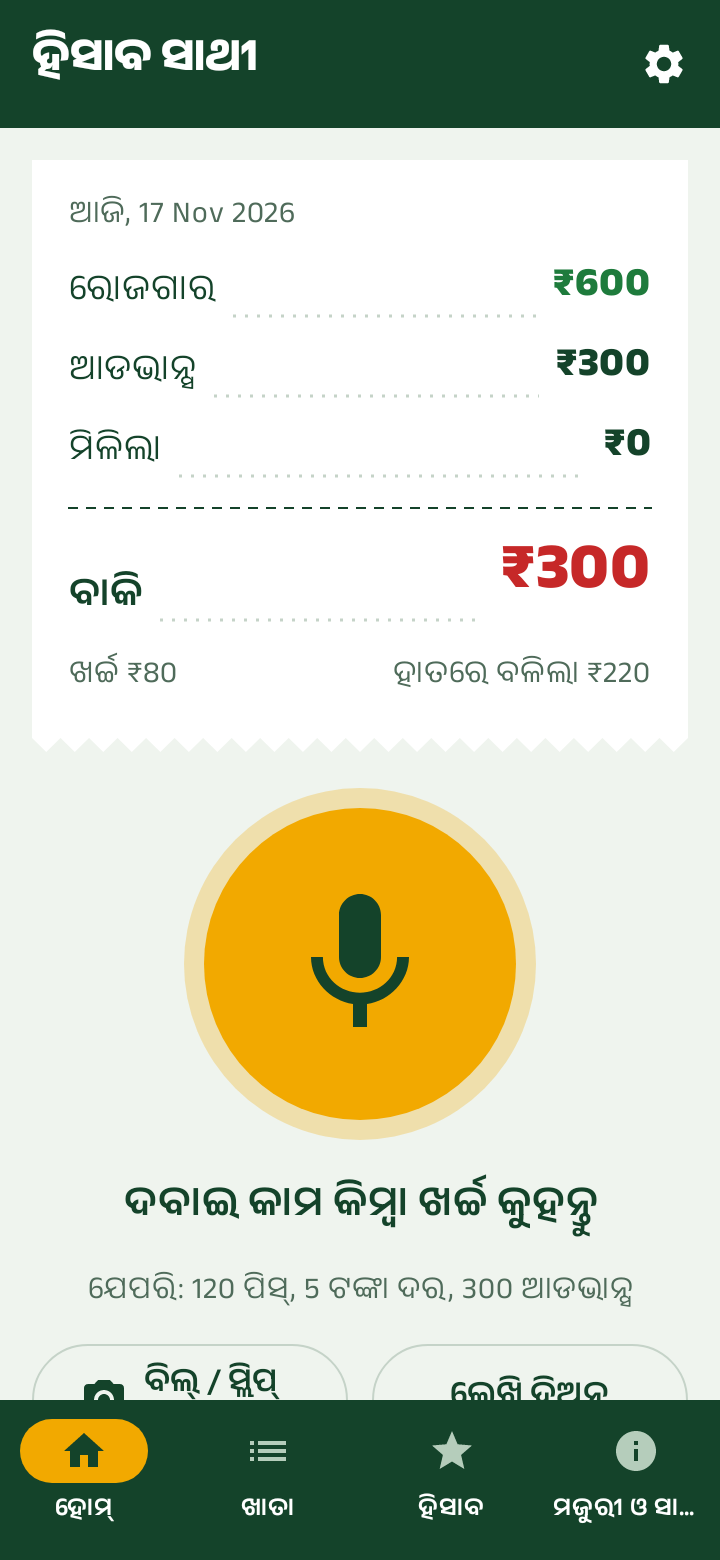
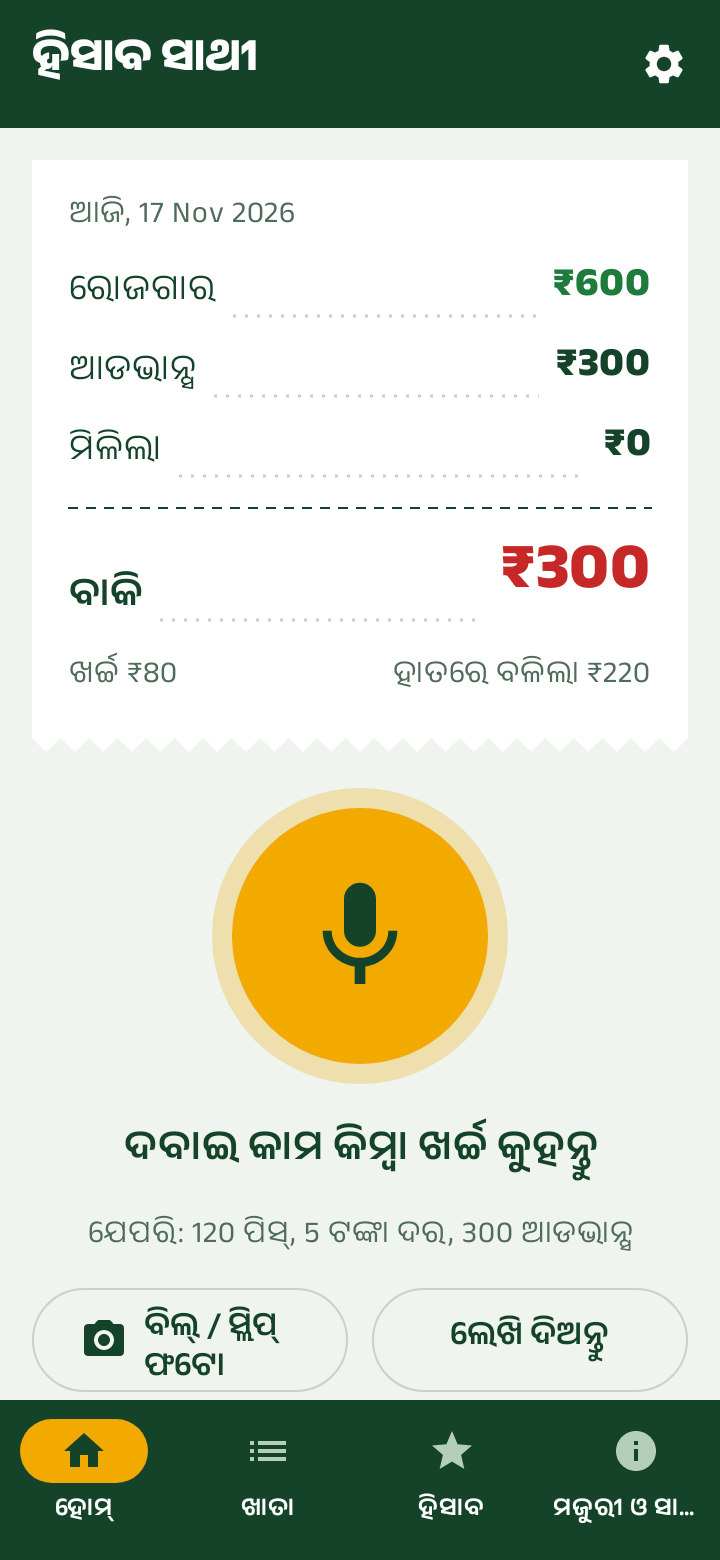
Smaller buttons and mic

Changed region(s): [[0.0917, 0.5231, 0.8861, 0.9231], [0.9167, 0.8615, 0.9472, 0.8923], [0.5194, 0.8615, 0.55, 0.8923]]

diff --git a/android/app/src/main/kotlin/com/acxelin/hisaabsaathi/ui/Screens.kt b/android/app/src/main/kotlin/com/acxelin/hisaabsaathi/ui/Screens.kt
@@ -108,9 +108,9 @@ private fun TotalsCard(title: String, t: Totals, s: Strings) {
 @Composable
 private fun BigButton(text: String, color: Color, modifier: Modifier = Modifier, onClick: () -> Unit) {
     Button(
-        onClick = onClick, modifier = modifier.height(64.dp), shape = RoundedCornerShape(10.dp),
+        onClick = onClick, modifier = modifier.height(52.dp), shape = RoundedCornerShape(10.dp),
         colors = ButtonDefaults.buttonColors(containerColor = color, contentColor = if (color == Marigold) Ink else Color.White),
-    ) { Text(text, fontSize = 18.sp, fontWeight = FontWeight.SemiBold, textAlign = TextAlign.Center) }
+    ) { Text(text, fontSize = 17.sp, fontWeight = FontWeight.SemiBold, textAlign = TextAlign.Center) }
 }
 
 // ---------------------------------------------------------------- home
@@ -141,16 +141,16 @@ fun HomeScreen(vm: AppViewModel, settings: Settings, s: Strings, capture: Captur
         val listening = capture == Capture.Listening
         val thinking = capture == Capture.Thinking
         val pulse by animateFloatAsState(if (listening) 1f + level * 0.35f else 1f, label = "mic")
-        Box(contentAlignment = Alignment.Center, modifier = Modifier.size(188.dp)) {
+        Box(contentAlignment = Alignment.Center, modifier = Modifier.size(160.dp)) {
             // The ring swells with the worker's voice while listening.
-            Box(Modifier.size(176.dp).scale(pulse).clip(CircleShape).background(if (listening) Sindoor.copy(alpha = 0.22f) else Marigold.copy(alpha = 0.28f)))
+            Box(Modifier.size(148.dp).scale(pulse).clip(CircleShape).background(if (listening) Sindoor.copy(alpha = 0.22f) else Marigold.copy(alpha = 0.28f)))
             Box(
-                Modifier.size(156.dp).clip(CircleShape).background(if (listening) Sindoor else Marigold)
+                Modifier.size(128.dp).clip(CircleShape).background(if (listening) Sindoor else Marigold)
                     .clickable(enabled = !thinking, onClick = onMic),
                 contentAlignment = Alignment.Center,
             ) {
                 if (thinking) CircularProgressIndicator(color = Ink)
-                else Icon(painterResource(R.drawable.ic_mic), s.tapAndSpeak, tint = if (listening) Color.White else Ink, modifier = Modifier.size(84.dp))
+                else Icon(painterResource(R.drawable.ic_mic), s.tapAndSpeak, tint = if (listening) Color.White else Ink, modifier = Modifier.size(64.dp))
             }
         }
         Text(
@@ -164,12 +164,12 @@ fun HomeScreen(vm: AppViewModel, settings: Settings, s: Strings, capture: Captur
         if (!listening && !thinking) Text(s.typeHint, fontSize = 15.sp, color = InkSoft, textAlign = TextAlign.Center)
 
         Row(horizontalArrangement = Arrangement.spacedBy(12.dp), modifier = Modifier.fillMaxWidth()) {
-            OutlinedButton(onClick = onScan, modifier = Modifier.weight(1f).height(56.dp)) {
+            OutlinedButton(onClick = onScan, modifier = Modifier.weight(1f).height(52.dp)) {
                 Icon(painterResource(R.drawable.ic_camera), null, tint = Ink)
                 Spacer(Modifier.width(8.dp))
                 Text(s.scanBill)
             }
-            OutlinedButton(onClick = onType, modifier = Modifier.weight(1f).height(56.dp)) { Text(s.typeInstead) }
+            OutlinedButton(onClick = onType, modifier = Modifier.weight(1f).height(52.dp)) { Text(s.typeInstead) }
         }
     }
 }
@@ -274,20 +274,20 @@ fun ReviewScreen(vm: AppViewModel, r: Capture.Review, s: Strings, onSpeakAnswer:
         }
         Row(Modifier.fillMaxWidth().padding(top = 12.dp), horizontalArrangement = Arrangement.spacedBy(12.dp)) {
             Button(
-                onClick = vm::retry, modifier = Modifier.weight(1f).height(88.dp), shape = RoundedCornerShape(12.dp),
+                onClick = vm::retry, modifier = Modifier.weight(1f).height(68.dp), shape = RoundedCornerShape(12.dp),
                 colors = ButtonDefaults.buttonColors(containerColor = Red),
             ) {
                 Column(horizontalAlignment = Alignment.CenterHorizontally) {
-                    Icon(Icons.Default.Close, null, modifier = Modifier.size(36.dp))
+                    Icon(Icons.Default.Close, null, modifier = Modifier.size(26.dp))
                     Text(s.fixByVoice, fontSize = 13.sp, textAlign = TextAlign.Center)
                 }
             }
             Button(
-                onClick = { vm.confirmSave() }, modifier = Modifier.weight(1f).height(88.dp), shape = RoundedCornerShape(12.dp),
+                onClick = { vm.confirmSave() }, modifier = Modifier.weight(1f).height(68.dp), shape = RoundedCornerShape(12.dp),
                 colors = ButtonDefaults.buttonColors(containerColor = Green),
             ) {
                 Column(horizontalAlignment = Alignment.CenterHorizontally) {
-                    Icon(Icons.Default.Check, null, modifier = Modifier.size(36.dp))
+                    Icon(Icons.Default.Check, null, modifier = Modifier.size(26.dp))
                     Text(s.save, fontSize = 13.sp, textAlign = TextAlign.Center)
                 }
             }
@@ -400,7 +400,7 @@ fun SummaryScreen(vm: AppViewModel, settings: Settings, s: Strings) {
             Section(color = Notice) { Text(it.text, fontSize = 18.sp, color = NoticeInk) }
         }
         BigButton(s.readAloud, Marigold, Modifier.fillMaxWidth()) { vm.speakSummary(period) }
-        OutlinedButton(onClick = { vm.exportPdf(period) }, modifier = Modifier.fillMaxWidth().height(56.dp)) {
+        OutlinedButton(onClick = { vm.exportPdf(period) }, modifier = Modifier.fillMaxWidth().height(52.dp)) {
             Icon(Icons.Default.Share, null); Spacer(Modifier.width(8.dp)); Text(s.exportPdf)
         }
 

diff --git a/android/app/src/main/kotlin/com/acxelin/hisaabsaathi/ui/SetupScreens.kt b/android/app/src/main/kotlin/com/acxelin/hisaabsaathi/ui/SetupScreens.kt
@@ -98,13 +98,13 @@ private fun LanguagePicker(vm: AppViewModel, settings: Settings, onDark: Boolean
                 pair.forEach { l ->
                     val selected = settings.lang == l
                     Button(
-                        onClick = { vm.setLang(l) }, modifier = Modifier.weight(1f).height(72.dp), shape = RoundedCornerShape(10.dp),
+                        onClick = { vm.setLang(l) }, modifier = Modifier.weight(1f).height(60.dp), shape = RoundedCornerShape(10.dp),
                         colors = ButtonDefaults.buttonColors(
                             containerColor = if (selected) Marigold else if (onDark) InkRaised else Paper,
                             contentColor = if (selected || !onDark) Ink else Color.White,
                         ),
                         // Each name is drawn in its own script's font, whatever the app language is.
-                    ) { Text(l.nativeName, fontSize = 24.sp, fontWeight = FontWeight.SemiBold, fontFamily = fontFor(l), color = if (selected || !onDark) Ink else Color.White) }
+                    ) { Text(l.nativeName, fontSize = 21.sp, fontWeight = FontWeight.SemiBold, fontFamily = fontFor(l), color = if (selected || !onDark) Ink else Color.White) }
                 }
             }
         }
@@ -140,13 +140,13 @@ fun Onboarding(vm: AppViewModel, settings: Settings, s: Strings) {
             }
         }
         Row(Modifier.fillMaxWidth(), horizontalArrangement = Arrangement.spacedBy(12.dp)) {
-            if (step > 0) OutlinedButton(onClick = { step-- }, modifier = Modifier.height(64.dp)) { Icon(Icons.AutoMirrored.Filled.ArrowBack, s.cancel, tint = Ink) }
+            if (step > 0) OutlinedButton(onClick = { step-- }, modifier = Modifier.height(52.dp)) { Icon(Icons.AutoMirrored.Filled.ArrowBack, s.cancel, tint = Ink) }
             Button(
                 onClick = { if (step < 2) step++ else vm.finishOnboarding() },
                 enabled = step != 1 || settings.region.isNotEmpty(),
-                modifier = Modifier.weight(1f).height(64.dp), shape = RoundedCornerShape(10.dp),
+                modifier = Modifier.weight(1f).height(52.dp), shape = RoundedCornerShape(10.dp),
                 colors = ButtonDefaults.buttonColors(containerColor = Marigold, contentColor = Ink),
-            ) { Text(if (step < 2) s.next else s.start, fontSize = 20.sp, fontWeight = FontWeight.SemiBold, color = Ink) }
+            ) { Text(if (step < 2) s.next else s.start, fontSize = 18.sp, fontWeight = FontWeight.SemiBold, color = Ink) }
         }
     }
 }
